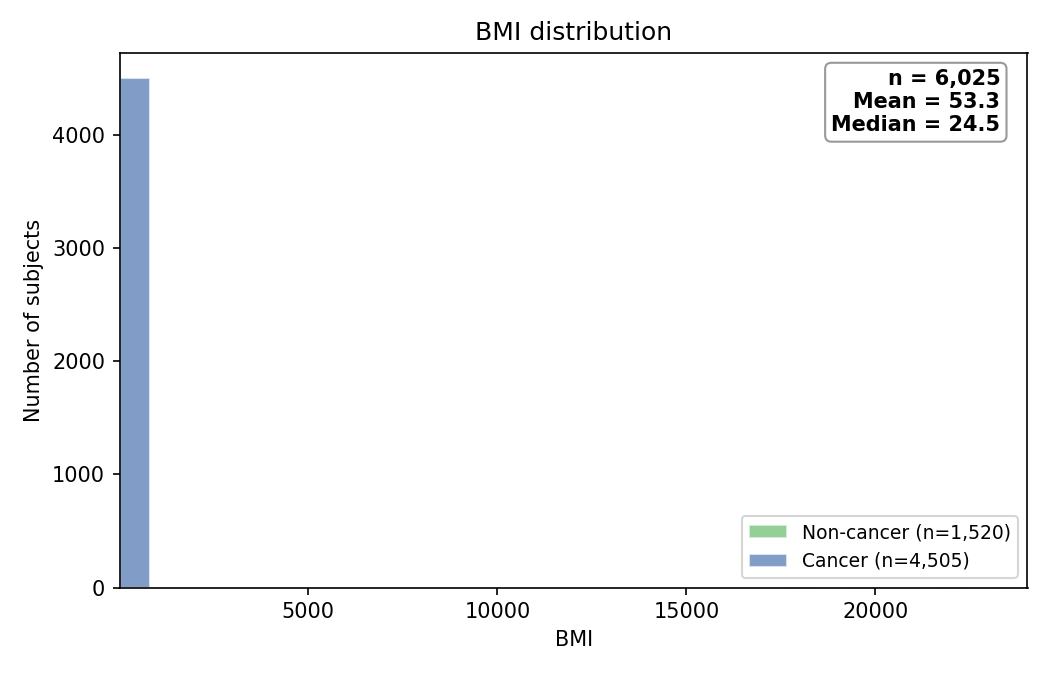
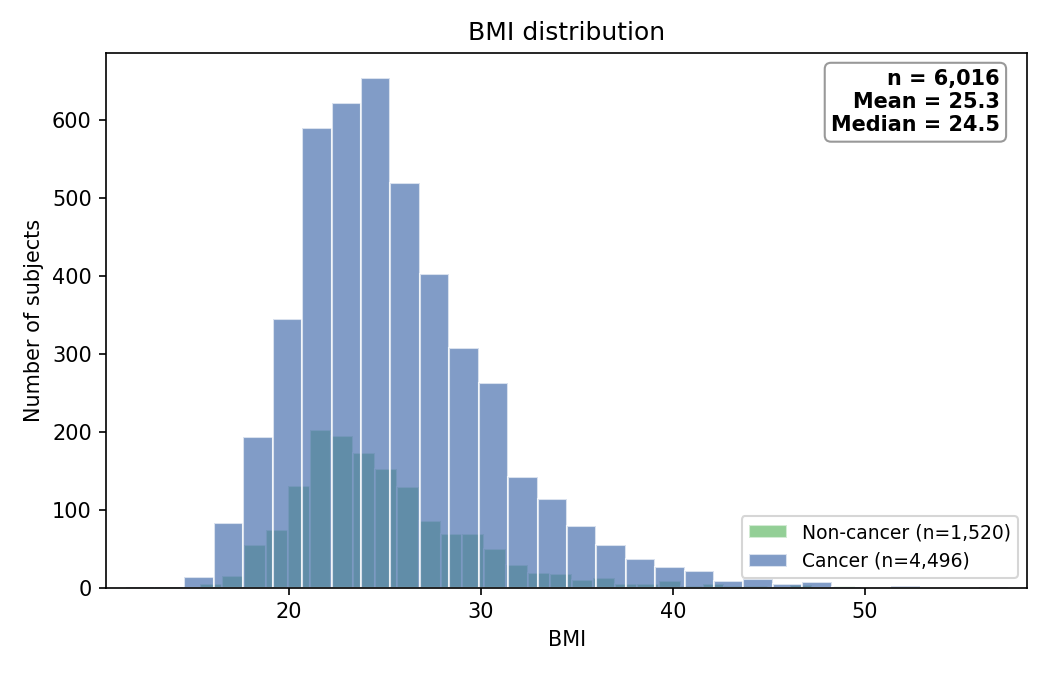
Update dashboard 2026-09-07 10:43

diff --git a/global_map.html b/global_map.html
@@ -2,6 +2,6 @@
 <head><meta charset="utf-8" /></head>
 <body>
     <div style="height:500px; width:100%;">                        <script>window.PlotlyConfig = {MathJaxConfig: 'local'};</script>
-        <script charset="utf-8" src="https://cdn.plot.ly/plotly-3.7.0.min.js" integrity="sha256-jvTGqxNp8AGWEcvNLVuKr+8j5dGe9Yw51LQkmDH+IYA=" crossorigin="anonymous"></script>                <div id="e7783add-64eb-47e3-b502-43742c8439c8" class="plotly-graph-div" style="height:100%; width:100%;"></div>            <script>                window.PLOTLYENV=window.PLOTLYENV || {};                                if (document.getElementById("e7783add-64eb-47e3-b502-43742c8439c8")) {                    Plotly.newPlot(                        "e7783add-64eb-47e3-b502-43742c8439c8",                        [{"colorscale":[[0,"#FEF9E7"],[1,"#E59866"]],"hoverinfo":"text","locations":["AUT","CAN","CHN","CZE","FRA","DEU","IND","ISR","ITA","JPN","NLD","POL","KOR","ESP","CHE","TUR","GBR","USA"],"marker":{"line":{"color":"white","width":0.5}},"showscale":false,"text":["\u003cb\u003eAustria\u003c\u002fb\u003e\u003cbr\u003eTotal samples: 154\u003cbr\u003eStudies: 1\u003cbr\u003e\u2500\u2500\u2500\u2500\u2500\u2500\u2500\u2500\u2500\u2500\u2500\u2500\u2500\u003cbr\u003eCRC: 93","\u003cb\u003eCanada\u003c\u002fb\u003e\u003cbr\u003eTotal samples: 98\u003cbr\u003eStudies: 2\u003cbr\u003e\u2500\u2500\u2500\u2500\u2500\u2500\u2500\u2500\u2500\u2500\u2500\u2500\u2500\u003cbr\u003eMelanoma: 60\u003cbr\u003eCRC: 24","\u003cb\u003eChina\u003c\u002fb\u003e\u003cbr\u003eTotal samples: 756\u003cbr\u003eStudies: 7\u003cbr\u003e\u2500\u2500\u2500\u2500\u2500\u2500\u2500\u2500\u2500\u2500\u2500\u2500\u2500\u003cbr\u003eCRC: 418\u003cbr\u003eLymphoma: 111\u003cbr\u003eLeukemia: 20","\u003cb\u003eCzech Republic\u003c\u002fb\u003e\u003cbr\u003eTotal samples: 327\u003cbr\u003eStudies: 2\u003cbr\u003e\u2500\u2500\u2500\u2500\u2500\u2500\u2500\u2500\u2500\u2500\u2500\u2500\u2500\u003cbr\u003eCRC: 281","\u003cb\u003eFrance\u003c\u002fb\u003e\u003cbr\u003eTotal samples: 1,373\u003cbr\u003eStudies: 4\u003cbr\u003e\u2500\u2500\u2500\u2500\u2500\u2500\u2500\u2500\u2500\u2500\u2500\u2500\u2500\u003cbr\u003eLung Cancer: 1,217\u003cbr\u003eCRC: 95","\u003cb\u003eGermany\u003c\u002fb\u003e\u003cbr\u003eTotal samples: 430\u003cbr\u003eStudies: 3\u003cbr\u003e\u2500\u2500\u2500\u2500\u2500\u2500\u2500\u2500\u2500\u2500\u2500\u2500\u2500\u003cbr\u003eLymphoma: 229\u003cbr\u003ePancreatic Cancer: 76\u003cbr\u003eCRC: 60","\u003cb\u003eIndia\u003c\u002fb\u003e\u003cbr\u003eTotal samples: 200\u003cbr\u003eStudies: 2\u003cbr\u003e\u2500\u2500\u2500\u2500\u2500\u2500\u2500\u2500\u2500\u2500\u2500\u2500\u2500\u003cbr\u003eCRC: 170","\u003cb\u003eIsrael\u003c\u002fb\u003e\u003cbr\u003eTotal samples: 42\u003cbr\u003eStudies: 1\u003cbr\u003e\u2500\u2500\u2500\u2500\u2500\u2500\u2500\u2500\u2500\u2500\u2500\u2500\u2500\u003cbr\u003eMelanoma: 42","\u003cb\u003eItaly\u003c\u002fb\u003e\u003cbr\u003eTotal samples: 484\u003cbr\u003eStudies: 4\u003cbr\u003e\u2500\u2500\u2500\u2500\u2500\u2500\u2500\u2500\u2500\u2500\u2500\u2500\u2500\u003cbr\u003eCRC: 373","\u003cb\u003eJapan\u003c\u002fb\u003e\u003cbr\u003eTotal samples: 1,766\u003cbr\u003eStudies: 4\u003cbr\u003e\u2500\u2500\u2500\u2500\u2500\u2500\u2500\u2500\u2500\u2500\u2500\u2500\u2500\u003cbr\u003eCRC: 807\u003cbr\u003ePancreatic Cancer: 560","\u003cb\u003eNetherlands\u003c\u002fb\u003e\u003cbr\u003eTotal samples: 75\u003cbr\u003eStudies: 2\u003cbr\u003e\u2500\u2500\u2500\u2500\u2500\u2500\u2500\u2500\u2500\u2500\u2500\u2500\u2500\u003cbr\u003eMelanoma: 75","\u003cb\u003ePoland\u003c\u002fb\u003e\u003cbr\u003eTotal samples: 322\u003cbr\u003eStudies: 2\u003cbr\u003e\u2500\u2500\u2500\u2500\u2500\u2500\u2500\u2500\u2500\u2500\u2500\u2500\u2500\u003cbr\u003eBreast Cancer: 153\u003cbr\u003eLymphoma: 60\u003cbr\u003eLeukemia: 40","\u003cb\u003eSouth Korea\u003c\u002fb\u003e\u003cbr\u003eTotal samples: 149\u003cbr\u003eStudies: 2\u003cbr\u003e\u2500\u2500\u2500\u2500\u2500\u2500\u2500\u2500\u2500\u2500\u2500\u2500\u2500\u003cbr\u003eLymphoma: 149","\u003cb\u003eSpain\u003c\u002fb\u003e\u003cbr\u003eTotal samples: 355\u003cbr\u003eStudies: 3\u003cbr\u003e\u2500\u2500\u2500\u2500\u2500\u2500\u2500\u2500\u2500\u2500\u2500\u2500\u2500\u003cbr\u003ePancreatic Cancer: 253\u003cbr\u003eCRC: 90\u003cbr\u003eMelanoma: 12","\u003cb\u003eSwitzerland\u003c\u002fb\u003e\u003cbr\u003eTotal samples: 29\u003cbr\u003eStudies: 1\u003cbr\u003e\u2500\u2500\u2500\u2500\u2500\u2500\u2500\u2500\u2500\u2500\u2500\u2500\u2500\u003cbr\u003eProstate Cancer: 29","\u003cb\u003eTurkey\u003c\u002fb\u003e\u003cbr\u003eTotal samples: 57\u003cbr\u003eStudies: 1\u003cbr\u003e\u2500\u2500\u2500\u2500\u2500\u2500\u2500\u2500\u2500\u2500\u2500\u2500\u2500\u003cbr\u003eCRC: 18","\u003cb\u003eUnited Kingdom\u003c\u002fb\u003e\u003cbr\u003eTotal samples: 143\u003cbr\u003eStudies: 2\u003cbr\u003e\u2500\u2500\u2500\u2500\u2500\u2500\u2500\u2500\u2500\u2500\u2500\u2500\u2500\u003cbr\u003eMelanoma: 98\u003cbr\u003eProstate Cancer: 45","\u003cb\u003eUnited States\u003c\u002fb\u003e\u003cbr\u003eTotal samples: 2,096\u003cbr\u003eStudies: 13\u003cbr\u003e\u2500\u2500\u2500\u2500\u2500\u2500\u2500\u2500\u2500\u2500\u2500\u2500\u2500\u003cbr\u003eCRC: 836\u003cbr\u003eMelanoma: 607\u003cbr\u003eLymphoma: 122"],"z":{"dtype":"i2","bdata":"mgBiAPQCRwFdBa4ByAAqAOQB5gZLAEIBlQBjAR0AOQCPADAI"},"type":"choropleth"},{"hoverinfo":"text","locations":["AUT","CAN","CHN","CZE","FRA","DEU","IND","ISR","ITA","JPN","NLD","POL","KOR","ESP","CHE","TUR","GBR","USA"],"marker":{"color":"#2166AC","line":{"color":"white","width":1},"opacity":0.7,"size":{"dtype":"f8","bdata":"AAAAAAAAIEAAAAAAAAAgQD0K16NwPS5AAAAAAAAAIED2KFyPwnU7QDMzMzMzMyFAAAAAAAAAIEAAAAAAAAAgQFyPwvUoXCNAKVyPwvWoQUAAAAAAAAAgQAAAAAAAACBAAAAAAAAAIEAAAAAAAAAgQAAAAAAAACBAAAAAAAAAIEAAAAAAAAAgQPYoXI\u002fC9URA"}},"mode":"markers","text":["\u003cb\u003eAustria\u003c\u002fb\u003e\u003cbr\u003eTotal samples: 154\u003cbr\u003eStudies: 1\u003cbr\u003e\u2500\u2500\u2500\u2500\u2500\u2500\u2500\u2500\u2500\u2500\u2500\u2500\u2500\u003cbr\u003eCRC: 93","\u003cb\u003eCanada\u003c\u002fb\u003e\u003cbr\u003eTotal samples: 98\u003cbr\u003eStudies: 2\u003cbr\u003e\u2500\u2500\u2500\u2500\u2500\u2500\u2500\u2500\u2500\u2500\u2500\u2500\u2500\u003cbr\u003eMelanoma: 60\u003cbr\u003eCRC: 24","\u003cb\u003eChina\u003c\u002fb\u003e\u003cbr\u003eTotal samples: 756\u003cbr\u003eStudies: 7\u003cbr\u003e\u2500\u2500\u2500\u2500\u2500\u2500\u2500\u2500\u2500\u2500\u2500\u2500\u2500\u003cbr\u003eCRC: 418\u003cbr\u003eLymphoma: 111\u003cbr\u003eLeukemia: 20","\u003cb\u003eCzech Republic\u003c\u002fb\u003e\u003cbr\u003eTotal samples: 327\u003cbr\u003eStudies: 2\u003cbr\u003e\u2500\u2500\u2500\u2500\u2500\u2500\u2500\u2500\u2500\u2500\u2500\u2500\u2500\u003cbr\u003eCRC: 281","\u003cb\u003eFrance\u003c\u002fb\u003e\u003cbr\u003eTotal samples: 1,373\u003cbr\u003eStudies: 4\u003cbr\u003e\u2500\u2500\u2500\u2500\u2500\u2500\u2500\u2500\u2500\u2500\u2500\u2500\u2500\u003cbr\u003eLung Cancer: 1,217\u003cbr\u003eCRC: 95","\u003cb\u003eGermany\u003c\u002fb\u003e\u003cbr\u003eTotal samples: 430\u003cbr\u003eStudies: 3\u003cbr\u003e\u2500\u2500\u2500\u2500\u2500\u2500\u2500\u2500\u2500\u2500\u2500\u2500\u2500\u003cbr\u003eLymphoma: 229\u003cbr\u003ePancreatic Cancer: 76\u003cbr\u003eCRC: 60","\u003cb\u003eIndia\u003c\u002fb\u003e\u003cbr\u003eTotal samples: 200\u003cbr\u003eStudies: 2\u003cbr\u003e\u2500\u2500\u2500\u2500\u2500\u2500\u2500\u2500\u2500\u2500\u2500\u2500\u2500\u003cbr\u003eCRC: 170","\u003cb\u003eIsrael\u003c\u002fb\u003e\u003cbr\u003eTotal samples: 42\u003cbr\u003eStudies: 1\u003cbr\u003e\u2500\u2500\u2500\u2500\u2500\u2500\u2500\u2500\u2500\u2500\u2500\u2500\u2500\u003cbr\u003eMelanoma: 42","\u003cb\u003eItaly\u003c\u002fb\u003e\u003cbr\u003eTotal samples: 484\u003cbr\u003eStudies: 4\u003cbr\u003e\u2500\u2500\u2500\u2500\u2500\u2500\u2500\u2500\u2500\u2500\u2500\u2500\u2500\u003cbr\u003eCRC: 373","\u003cb\u003eJapan\u003c\u002fb\u003e\u003cbr\u003eTotal samples: 1,766\u003cbr\u003eStudies: 4\u003cbr\u003e\u2500\u2500\u2500\u2500\u2500\u2500\u2500\u2500\u2500\u2500\u2500\u2500\u2500\u003cbr\u003eCRC: 807\u003cbr\u003ePancreatic Cancer: 560","\u003cb\u003eNetherlands\u003c\u002fb\u003e\u003cbr\u003eTotal samples: 75\u003cbr\u003eStudies: 2\u003cbr\u003e\u2500\u2500\u2500\u2500\u2500\u2500\u2500\u2500\u2500\u2500\u2500\u2500\u2500\u003cbr\u003eMelanoma: 75","\u003cb\u003ePoland\u003c\u002fb\u003e\u003cbr\u003eTotal samples: 322\u003cbr\u003eStudies: 2\u003cbr\u003e\u2500\u2500\u2500\u2500\u2500\u2500\u2500\u2500\u2500\u2500\u2500\u2500\u2500\u003cbr\u003eBreast Cancer: 153\u003cbr\u003eLymphoma: 60\u003cbr\u003eLeukemia: 40","\u003cb\u003eSouth Korea\u003c\u002fb\u003e\u003cbr\u003eTotal samples: 149\u003cbr\u003eStudies: 2\u003cbr\u003e\u2500\u2500\u2500\u2500\u2500\u2500\u2500\u2500\u2500\u2500\u2500\u2500\u2500\u003cbr\u003eLymphoma: 149","\u003cb\u003eSpain\u003c\u002fb\u003e\u003cbr\u003eTotal samples: 355\u003cbr\u003eStudies: 3\u003cbr\u003e\u2500\u2500\u2500\u2500\u2500\u2500\u2500\u2500\u2500\u2500\u2500\u2500\u2500\u003cbr\u003ePancreatic Cancer: 253\u003cbr\u003eCRC: 90\u003cbr\u003eMelanoma: 12","\u003cb\u003eSwitzerland\u003c\u002fb\u003e\u003cbr\u003eTotal samples: 29\u003cbr\u003eStudies: 1\u003cbr\u003e\u2500\u2500\u2500\u2500\u2500\u2500\u2500\u2500\u2500\u2500\u2500\u2500\u2500\u003cbr\u003eProstate Cancer: 29","\u003cb\u003eTurkey\u003c\u002fb\u003e\u003cbr\u003eTotal samples: 57\u003cbr\u003eStudies: 1\u003cbr\u003e\u2500\u2500\u2500\u2500\u2500\u2500\u2500\u2500\u2500\u2500\u2500\u2500\u2500\u003cbr\u003eCRC: 18","\u003cb\u003eUnited Kingdom\u003c\u002fb\u003e\u003cbr\u003eTotal samples: 143\u003cbr\u003eStudies: 2\u003cbr\u003e\u2500\u2500\u2500\u2500\u2500\u2500\u2500\u2500\u2500\u2500\u2500\u2500\u2500\u003cbr\u003eMelanoma: 98\u003cbr\u003eProstate Cancer: 45","\u003cb\u003eUnited States\u003c\u002fb\u003e\u003cbr\u003eTotal samples: 2,096\u003cbr\u003eStudies: 13\u003cbr\u003e\u2500\u2500\u2500\u2500\u2500\u2500\u2500\u2500\u2500\u2500\u2500\u2500\u2500\u003cbr\u003eCRC: 836\u003cbr\u003eMelanoma: 607\u003cbr\u003eLymphoma: 122"],"type":"scattergeo"}],                        {"template":{"data":{"histogram2dcontour":[{"type":"histogram2dcontour","colorbar":{"outlinewidth":0,"ticks":""},"colorscale":[[0.0,"#0d0887"],[0.1111111111111111,"#46039f"],[0.2222222222222222,"#7201a8"],[0.3333333333333333,"#9c179e"],[0.4444444444444444,"#bd3786"],[0.5555555555555556,"#d8576b"],[0.6666666666666666,"#ed7953"],[0.7777777777777778,"#fb9f3a"],[0.8888888888888888,"#fdca26"],[1.0,"#f0f921"]]}],"choropleth":[{"type":"choropleth","colorbar":{"outlinewidth":0,"ticks":""}}],"histogram2d":[{"type":"histogram2d","colorbar":{"outlinewidth":0,"ticks":""},"colorscale":[[0.0,"#0d0887"],[0.1111111111111111,"#46039f"],[0.2222222222222222,"#7201a8"],[0.3333333333333333,"#9c179e"],[0.4444444444444444,"#bd3786"],[0.5555555555555556,"#d8576b"],[0.6666666666666666,"#ed7953"],[0.7777777777777778,"#fb9f3a"],[0.8888888888888888,"#fdca26"],[1.0,"#f0f921"]]}],"heatmap":[{"type":"heatmap","colorbar":{"outlinewidth":0,"ticks":""},"colorscale":[[0.0,"#0d0887"],[0.1111111111111111,"#46039f"],[0.2222222222222222,"#7201a8"],[0.3333333333333333,"#9c179e"],[0.4444444444444444,"#bd3786"],[0.5555555555555556,"#d8576b"],[0.6666666666666666,"#ed7953"],[0.7777777777777778,"#fb9f3a"],[0.8888888888888888,"#fdca26"],[1.0,"#f0f921"]]}],"contourcarpet":[{"type":"contourcarpet","colorbar":{"outlinewidth":0,"ticks":""}}],"contour":[{"type":"contour","colorbar":{"outlinewidth":0,"ticks":""},"colorscale":[[0.0,"#0d0887"],[0.1111111111111111,"#46039f"],[0.2222222222222222,"#7201a8"],[0.3333333333333333,"#9c179e"],[0.4444444444444444,"#bd3786"],[0.5555555555555556,"#d8576b"],[0.6666666666666666,"#ed7953"],[0.7777777777777778,"#fb9f3a"],[0.8888888888888888,"#fdca26"],[1.0,"#f0f921"]]}],"surface":[{"type":"surface","colorbar":{"outlinewidth":0,"ticks":""},"colorscale":[[0.0,"#0d0887"],[0.1111111111111111,"#46039f"],[0.2222222222222222,"#7201a8"],[0.3333333333333333,"#9c179e"],[0.4444444444444444,"#bd3786"],[0.5555555555555556,"#d8576b"],[0.6666666666666666,"#ed7953"],[0.7777777777777778,"#fb9f3a"],[0.8888888888888888,"#fdca26"],[1.0,"#f0f921"]]}],"mesh3d":[{"type":"mesh3d","colorbar":{"outlinewidth":0,"ticks":""}}],"scatter":[{"fillpattern":{"fillmode":"overlay","size":10,"solidity":0.2},"type":"scatter"}],"parcoords":[{"type":"parcoords","line":{"colorbar":{"outlinewidth":0,"ticks":""}}}],"scatterpolargl":[{"type":"scatterpolargl","marker":{"colorbar":{"outlinewidth":0,"ticks":""}}}],"bar":[{"error_x":{"color":"#2a3f5f"},"error_y":{"color":"#2a3f5f"},"marker":{"line":{"color":"#E5ECF6","width":0.5},"pattern":{"fillmode":"overlay","size":10,"solidity":0.2}},"type":"bar"}],"scattergeo":[{"type":"scattergeo","marker":{"colorbar":{"outlinewidth":0,"ticks":""}}}],"scatterpolar":[{"type":"scatterpolar","marker":{"colorbar":{"outlinewidth":0,"ticks":""}}}],"histogram":[{"marker":{"pattern":{"fillmode":"overlay","size":10,"solidity":0.2}},"type":"histogram"}],"scattergl":[{"type":"scattergl","marker":{"colorbar":{"outlinewidth":0,"ticks":""}}}],"scatter3d":[{"type":"scatter3d","line":{"colorbar":{"outlinewidth":0,"ticks":""}},"marker":{"colorbar":{"outlinewidth":0,"ticks":""}}}],"scattermap":[{"type":"scattermap","marker":{"colorbar":{"outlinewidth":0,"ticks":""}}}],"scattermapbox":[{"type":"scattermapbox","marker":{"colorbar":{"outlinewidth":0,"ticks":""}}}],"scatterternary":[{"type":"scatterternary","marker":{"colorbar":{"outlinewidth":0,"ticks":""}}}],"scattercarpet":[{"type":"scattercarpet","marker":{"colorbar":{"outlinewidth":0,"ticks":""}}}],"carpet":[{"aaxis":{"endlinecolor":"#2a3f5f","gridcolor":"white","linecolor":"white","minorgridcolor":"white","startlinecolor":"#2a3f5f"},"baxis":{"endlinecolor":"#2a3f5f","gridcolor":"white","linecolor":"white","minorgridcolor":"white","startlinecolor":"#2a3f5f"},"type":"carpet"}],"table":[{"cells":{"fill":{"color":"#EBF0F8"},"line":{"color":"white"}},"header":{"fill":{"color":"#C8D4E3"},"line":{"color":"white"}},"type":"table"}],"barpolar":[{"marker":{"line":{"color":"#E5ECF6","width":0.5},"pattern":{"fillmode":"overlay","size":10,"solidity":0.2}},"type":"barpolar"}],"pie":[{"automargin":true,"type":"pie"}]},"layout":{"autotypenumbers":"strict","colorway":["#636efa","#EF553B","#00cc96","#ab63fa","#FFA15A","#19d3f3","#FF6692","#B6E880","#FF97FF","#FECB52"],"font":{"color":"#2a3f5f"},"hovermode":"closest","hoverlabel":{"align":"left"},"paper_bgcolor":"white","plot_bgcolor":"#E5ECF6","polar":{"bgcolor":"#E5ECF6","angularaxis":{"gridcolor":"white","linecolor":"white","ticks":""},"radialaxis":{"gridcolor":"white","linecolor":"white","ticks":""}},"ternary":{"bgcolor":"#E5ECF6","aaxis":{"gridcolor":"white","linecolor":"white","ticks":""},"baxis":{"gridcolor":"white","linecolor":"white","ticks":""},"caxis":{"gridcolor":"white","linecolor":"white","ticks":""}},"coloraxis":{"colorbar":{"outlinewidth":0,"ticks":""}},"colorscale":{"sequential":[[0.0,"#0d0887"],[0.1111111111111111,"#46039f"],[0.2222222222222222,"#7201a8"],[0.3333333333333333,"#9c179e"],[0.4444444444444444,"#bd3786"],[0.5555555555555556,"#d8576b"],[0.6666666666666666,"#ed7953"],[0.7777777777777778,"#fb9f3a"],[0.8888888888888888,"#fdca26"],[1.0,"#f0f921"]],"sequentialminus":[[0.0,"#0d0887"],[0.1111111111111111,"#46039f"],[0.2222222222222222,"#7201a8"],[0.3333333333333333,"#9c179e"],[0.4444444444444444,"#bd3786"],[0.5555555555555556,"#d8576b"],[0.6666666666666666,"#ed7953"],[0.7777777777777778,"#fb9f3a"],[0.8888888888888888,"#fdca26"],[1.0,"#f0f921"]],"diverging":[[0,"#8e0152"],[0.1,"#c51b7d"],[0.2,"#de77ae"],[0.3,"#f1b6da"],[0.4,"#fde0ef"],[0.5,"#f7f7f7"],[0.6,"#e6f5d0"],[0.7,"#b8e186"],[0.8,"#7fbc41"],[0.9,"#4d9221"],[1,"#276419"]]},"xaxis":{"gridcolor":"white","linecolor":"white","ticks":"","title":{"standoff":15},"zerolinecolor":"white","automargin":true,"zerolinewidth":2},"yaxis":{"gridcolor":"white","linecolor":"white","ticks":"","title":{"standoff":15},"zerolinecolor":"white","automargin":true,"zerolinewidth":2},"scene":{"xaxis":{"backgroundcolor":"#E5ECF6","gridcolor":"white","linecolor":"white","showbackground":true,"ticks":"","zerolinecolor":"white","gridwidth":2},"yaxis":{"backgroundcolor":"#E5ECF6","gridcolor":"white","linecolor":"white","showbackground":true,"ticks":"","zerolinecolor":"white","gridwidth":2},"zaxis":{"backgroundcolor":"#E5ECF6","gridcolor":"white","linecolor":"white","showbackground":true,"ticks":"","zerolinecolor":"white","gridwidth":2}},"shapedefaults":{"line":{"color":"#2a3f5f"}},"annotationdefaults":{"arrowcolor":"#2a3f5f","arrowhead":0,"arrowwidth":1},"geo":{"bgcolor":"white","landcolor":"#E5ECF6","subunitcolor":"white","showland":true,"showlakes":true,"lakecolor":"white"},"title":{"x":0.05},"mapbox":{"style":"light"}}},"geo":{"projection":{"type":"natural earth"},"showframe":false,"showcoastlines":true,"coastlinecolor":"grey","showland":true,"landcolor":"#F5F5F2","showocean":true,"oceancolor":"#EAF2F8","showlakes":false,"bgcolor":"#EAF2F8"},"margin":{"l":0,"r":0,"t":30,"b":0},"title":{"font":{"size":16},"text":"Global distribution of cancer microbiome studies","x":0.5},"hoverlabel":{"font":{"size":13,"family":"Arial"},"bgcolor":"white"},"height":500,"paper_bgcolor":"white"},                        {"responsive": true}                    )                };            </script>        </div>
+        <script charset="utf-8" src="https://cdn.plot.ly/plotly-3.7.0.min.js" integrity="sha256-jvTGqxNp8AGWEcvNLVuKr+8j5dGe9Yw51LQkmDH+IYA=" crossorigin="anonymous"></script>                <div id="ef508b28-3c56-4efb-9f65-5759a006d5a5" class="plotly-graph-div" style="height:100%; width:100%;"></div>            <script>                window.PLOTLYENV=window.PLOTLYENV || {};                                if (document.getElementById("ef508b28-3c56-4efb-9f65-5759a006d5a5")) {                    Plotly.newPlot(                        "ef508b28-3c56-4efb-9f65-5759a006d5a5",                        [{"colorscale":[[0,"#FEF9E7"],[1,"#E59866"]],"hoverinfo":"text","locations":["AUT","CAN","CHN","CZE","FRA","DEU","IND","ISR","ITA","JPN","NLD","POL","KOR","ESP","CHE","TUR","GBR","USA"],"marker":{"line":{"color":"white","width":0.5}},"showscale":false,"text":["\u003cb\u003eAustria\u003c\u002fb\u003e\u003cbr\u003eTotal samples: 154\u003cbr\u003eStudies: 1\u003cbr\u003e\u2500\u2500\u2500\u2500\u2500\u2500\u2500\u2500\u2500\u2500\u2500\u2500\u2500\u003cbr\u003eCRC: 93","\u003cb\u003eCanada\u003c\u002fb\u003e\u003cbr\u003eTotal samples: 98\u003cbr\u003eStudies: 2\u003cbr\u003e\u2500\u2500\u2500\u2500\u2500\u2500\u2500\u2500\u2500\u2500\u2500\u2500\u2500\u003cbr\u003eMelanoma: 60\u003cbr\u003eCRC: 24","\u003cb\u003eChina\u003c\u002fb\u003e\u003cbr\u003eTotal samples: 756\u003cbr\u003eStudies: 7\u003cbr\u003e\u2500\u2500\u2500\u2500\u2500\u2500\u2500\u2500\u2500\u2500\u2500\u2500\u2500\u003cbr\u003eCRC: 418\u003cbr\u003eLymphoma: 111\u003cbr\u003eLeukemia: 20","\u003cb\u003eCzech Republic\u003c\u002fb\u003e\u003cbr\u003eTotal samples: 327\u003cbr\u003eStudies: 2\u003cbr\u003e\u2500\u2500\u2500\u2500\u2500\u2500\u2500\u2500\u2500\u2500\u2500\u2500\u2500\u003cbr\u003eCRC: 281","\u003cb\u003eFrance\u003c\u002fb\u003e\u003cbr\u003eTotal samples: 1,373\u003cbr\u003eStudies: 4\u003cbr\u003e\u2500\u2500\u2500\u2500\u2500\u2500\u2500\u2500\u2500\u2500\u2500\u2500\u2500\u003cbr\u003eLung Cancer: 1,217\u003cbr\u003eCRC: 95","\u003cb\u003eGermany\u003c\u002fb\u003e\u003cbr\u003eTotal samples: 430\u003cbr\u003eStudies: 3\u003cbr\u003e\u2500\u2500\u2500\u2500\u2500\u2500\u2500\u2500\u2500\u2500\u2500\u2500\u2500\u003cbr\u003eLymphoma: 229\u003cbr\u003ePancreatic Cancer: 76\u003cbr\u003eCRC: 60","\u003cb\u003eIndia\u003c\u002fb\u003e\u003cbr\u003eTotal samples: 200\u003cbr\u003eStudies: 2\u003cbr\u003e\u2500\u2500\u2500\u2500\u2500\u2500\u2500\u2500\u2500\u2500\u2500\u2500\u2500\u003cbr\u003eCRC: 170","\u003cb\u003eIsrael\u003c\u002fb\u003e\u003cbr\u003eTotal samples: 42\u003cbr\u003eStudies: 1\u003cbr\u003e\u2500\u2500\u2500\u2500\u2500\u2500\u2500\u2500\u2500\u2500\u2500\u2500\u2500\u003cbr\u003eMelanoma: 42","\u003cb\u003eItaly\u003c\u002fb\u003e\u003cbr\u003eTotal samples: 484\u003cbr\u003eStudies: 4\u003cbr\u003e\u2500\u2500\u2500\u2500\u2500\u2500\u2500\u2500\u2500\u2500\u2500\u2500\u2500\u003cbr\u003eCRC: 373","\u003cb\u003eJapan\u003c\u002fb\u003e\u003cbr\u003eTotal samples: 1,766\u003cbr\u003eStudies: 4\u003cbr\u003e\u2500\u2500\u2500\u2500\u2500\u2500\u2500\u2500\u2500\u2500\u2500\u2500\u2500\u003cbr\u003eCRC: 807\u003cbr\u003ePancreatic Cancer: 560","\u003cb\u003eNetherlands\u003c\u002fb\u003e\u003cbr\u003eTotal samples: 75\u003cbr\u003eStudies: 2\u003cbr\u003e\u2500\u2500\u2500\u2500\u2500\u2500\u2500\u2500\u2500\u2500\u2500\u2500\u2500\u003cbr\u003eMelanoma: 75","\u003cb\u003ePoland\u003c\u002fb\u003e\u003cbr\u003eTotal samples: 322\u003cbr\u003eStudies: 2\u003cbr\u003e\u2500\u2500\u2500\u2500\u2500\u2500\u2500\u2500\u2500\u2500\u2500\u2500\u2500\u003cbr\u003eBreast Cancer: 153\u003cbr\u003eLymphoma: 60\u003cbr\u003eLeukemia: 40","\u003cb\u003eSouth Korea\u003c\u002fb\u003e\u003cbr\u003eTotal samples: 149\u003cbr\u003eStudies: 2\u003cbr\u003e\u2500\u2500\u2500\u2500\u2500\u2500\u2500\u2500\u2500\u2500\u2500\u2500\u2500\u003cbr\u003eLymphoma: 149","\u003cb\u003eSpain\u003c\u002fb\u003e\u003cbr\u003eTotal samples: 355\u003cbr\u003eStudies: 3\u003cbr\u003e\u2500\u2500\u2500\u2500\u2500\u2500\u2500\u2500\u2500\u2500\u2500\u2500\u2500\u003cbr\u003ePancreatic Cancer: 253\u003cbr\u003eCRC: 90\u003cbr\u003eMelanoma: 12","\u003cb\u003eSwitzerland\u003c\u002fb\u003e\u003cbr\u003eTotal samples: 29\u003cbr\u003eStudies: 1\u003cbr\u003e\u2500\u2500\u2500\u2500\u2500\u2500\u2500\u2500\u2500\u2500\u2500\u2500\u2500\u003cbr\u003eProstate Cancer: 29","\u003cb\u003eTurkey\u003c\u002fb\u003e\u003cbr\u003eTotal samples: 57\u003cbr\u003eStudies: 1\u003cbr\u003e\u2500\u2500\u2500\u2500\u2500\u2500\u2500\u2500\u2500\u2500\u2500\u2500\u2500\u003cbr\u003eCRC: 18","\u003cb\u003eUnited Kingdom\u003c\u002fb\u003e\u003cbr\u003eTotal samples: 143\u003cbr\u003eStudies: 2\u003cbr\u003e\u2500\u2500\u2500\u2500\u2500\u2500\u2500\u2500\u2500\u2500\u2500\u2500\u2500\u003cbr\u003eMelanoma: 98\u003cbr\u003eProstate Cancer: 45","\u003cb\u003eUnited States\u003c\u002fb\u003e\u003cbr\u003eTotal samples: 2,096\u003cbr\u003eStudies: 13\u003cbr\u003e\u2500\u2500\u2500\u2500\u2500\u2500\u2500\u2500\u2500\u2500\u2500\u2500\u2500\u003cbr\u003eCRC: 836\u003cbr\u003eMelanoma: 607\u003cbr\u003eLymphoma: 122"],"z":{"dtype":"i2","bdata":"mgBiAPQCRwFdBa4ByAAqAOQB5gZLAEIBlQBjAR0AOQCPADAI"},"type":"choropleth"},{"hoverinfo":"text","locations":["AUT","CAN","CHN","CZE","FRA","DEU","IND","ISR","ITA","JPN","NLD","POL","KOR","ESP","CHE","TUR","GBR","USA"],"marker":{"color":"#2166AC","line":{"color":"white","width":1},"opacity":0.7,"size":{"dtype":"f8","bdata":"AAAAAAAAIEAAAAAAAAAgQD0K16NwPS5AAAAAAAAAIED2KFyPwnU7QDMzMzMzMyFAAAAAAAAAIEAAAAAAAAAgQFyPwvUoXCNAKVyPwvWoQUAAAAAAAAAgQAAAAAAAACBAAAAAAAAAIEAAAAAAAAAgQAAAAAAAACBAAAAAAAAAIEAAAAAAAAAgQPYoXI\u002fC9URA"}},"mode":"markers","text":["\u003cb\u003eAustria\u003c\u002fb\u003e\u003cbr\u003eTotal samples: 154\u003cbr\u003eStudies: 1\u003cbr\u003e\u2500\u2500\u2500\u2500\u2500\u2500\u2500\u2500\u2500\u2500\u2500\u2500\u2500\u003cbr\u003eCRC: 93","\u003cb\u003eCanada\u003c\u002fb\u003e\u003cbr\u003eTotal samples: 98\u003cbr\u003eStudies: 2\u003cbr\u003e\u2500\u2500\u2500\u2500\u2500\u2500\u2500\u2500\u2500\u2500\u2500\u2500\u2500\u003cbr\u003eMelanoma: 60\u003cbr\u003eCRC: 24","\u003cb\u003eChina\u003c\u002fb\u003e\u003cbr\u003eTotal samples: 756\u003cbr\u003eStudies: 7\u003cbr\u003e\u2500\u2500\u2500\u2500\u2500\u2500\u2500\u2500\u2500\u2500\u2500\u2500\u2500\u003cbr\u003eCRC: 418\u003cbr\u003eLymphoma: 111\u003cbr\u003eLeukemia: 20","\u003cb\u003eCzech Republic\u003c\u002fb\u003e\u003cbr\u003eTotal samples: 327\u003cbr\u003eStudies: 2\u003cbr\u003e\u2500\u2500\u2500\u2500\u2500\u2500\u2500\u2500\u2500\u2500\u2500\u2500\u2500\u003cbr\u003eCRC: 281","\u003cb\u003eFrance\u003c\u002fb\u003e\u003cbr\u003eTotal samples: 1,373\u003cbr\u003eStudies: 4\u003cbr\u003e\u2500\u2500\u2500\u2500\u2500\u2500\u2500\u2500\u2500\u2500\u2500\u2500\u2500\u003cbr\u003eLung Cancer: 1,217\u003cbr\u003eCRC: 95","\u003cb\u003eGermany\u003c\u002fb\u003e\u003cbr\u003eTotal samples: 430\u003cbr\u003eStudies: 3\u003cbr\u003e\u2500\u2500\u2500\u2500\u2500\u2500\u2500\u2500\u2500\u2500\u2500\u2500\u2500\u003cbr\u003eLymphoma: 229\u003cbr\u003ePancreatic Cancer: 76\u003cbr\u003eCRC: 60","\u003cb\u003eIndia\u003c\u002fb\u003e\u003cbr\u003eTotal samples: 200\u003cbr\u003eStudies: 2\u003cbr\u003e\u2500\u2500\u2500\u2500\u2500\u2500\u2500\u2500\u2500\u2500\u2500\u2500\u2500\u003cbr\u003eCRC: 170","\u003cb\u003eIsrael\u003c\u002fb\u003e\u003cbr\u003eTotal samples: 42\u003cbr\u003eStudies: 1\u003cbr\u003e\u2500\u2500\u2500\u2500\u2500\u2500\u2500\u2500\u2500\u2500\u2500\u2500\u2500\u003cbr\u003eMelanoma: 42","\u003cb\u003eItaly\u003c\u002fb\u003e\u003cbr\u003eTotal samples: 484\u003cbr\u003eStudies: 4\u003cbr\u003e\u2500\u2500\u2500\u2500\u2500\u2500\u2500\u2500\u2500\u2500\u2500\u2500\u2500\u003cbr\u003eCRC: 373","\u003cb\u003eJapan\u003c\u002fb\u003e\u003cbr\u003eTotal samples: 1,766\u003cbr\u003eStudies: 4\u003cbr\u003e\u2500\u2500\u2500\u2500\u2500\u2500\u2500\u2500\u2500\u2500\u2500\u2500\u2500\u003cbr\u003eCRC: 807\u003cbr\u003ePancreatic Cancer: 560","\u003cb\u003eNetherlands\u003c\u002fb\u003e\u003cbr\u003eTotal samples: 75\u003cbr\u003eStudies: 2\u003cbr\u003e\u2500\u2500\u2500\u2500\u2500\u2500\u2500\u2500\u2500\u2500\u2500\u2500\u2500\u003cbr\u003eMelanoma: 75","\u003cb\u003ePoland\u003c\u002fb\u003e\u003cbr\u003eTotal samples: 322\u003cbr\u003eStudies: 2\u003cbr\u003e\u2500\u2500\u2500\u2500\u2500\u2500\u2500\u2500\u2500\u2500\u2500\u2500\u2500\u003cbr\u003eBreast Cancer: 153\u003cbr\u003eLymphoma: 60\u003cbr\u003eLeukemia: 40","\u003cb\u003eSouth Korea\u003c\u002fb\u003e\u003cbr\u003eTotal samples: 149\u003cbr\u003eStudies: 2\u003cbr\u003e\u2500\u2500\u2500\u2500\u2500\u2500\u2500\u2500\u2500\u2500\u2500\u2500\u2500\u003cbr\u003eLymphoma: 149","\u003cb\u003eSpain\u003c\u002fb\u003e\u003cbr\u003eTotal samples: 355\u003cbr\u003eStudies: 3\u003cbr\u003e\u2500\u2500\u2500\u2500\u2500\u2500\u2500\u2500\u2500\u2500\u2500\u2500\u2500\u003cbr\u003ePancreatic Cancer: 253\u003cbr\u003eCRC: 90\u003cbr\u003eMelanoma: 12","\u003cb\u003eSwitzerland\u003c\u002fb\u003e\u003cbr\u003eTotal samples: 29\u003cbr\u003eStudies: 1\u003cbr\u003e\u2500\u2500\u2500\u2500\u2500\u2500\u2500\u2500\u2500\u2500\u2500\u2500\u2500\u003cbr\u003eProstate Cancer: 29","\u003cb\u003eTurkey\u003c\u002fb\u003e\u003cbr\u003eTotal samples: 57\u003cbr\u003eStudies: 1\u003cbr\u003e\u2500\u2500\u2500\u2500\u2500\u2500\u2500\u2500\u2500\u2500\u2500\u2500\u2500\u003cbr\u003eCRC: 18","\u003cb\u003eUnited Kingdom\u003c\u002fb\u003e\u003cbr\u003eTotal samples: 143\u003cbr\u003eStudies: 2\u003cbr\u003e\u2500\u2500\u2500\u2500\u2500\u2500\u2500\u2500\u2500\u2500\u2500\u2500\u2500\u003cbr\u003eMelanoma: 98\u003cbr\u003eProstate Cancer: 45","\u003cb\u003eUnited States\u003c\u002fb\u003e\u003cbr\u003eTotal samples: 2,096\u003cbr\u003eStudies: 13\u003cbr\u003e\u2500\u2500\u2500\u2500\u2500\u2500\u2500\u2500\u2500\u2500\u2500\u2500\u2500\u003cbr\u003eCRC: 836\u003cbr\u003eMelanoma: 607\u003cbr\u003eLymphoma: 122"],"type":"scattergeo"}],                        {"template":{"data":{"histogram2dcontour":[{"type":"histogram2dcontour","colorbar":{"outlinewidth":0,"ticks":""},"colorscale":[[0.0,"#0d0887"],[0.1111111111111111,"#46039f"],[0.2222222222222222,"#7201a8"],[0.3333333333333333,"#9c179e"],[0.4444444444444444,"#bd3786"],[0.5555555555555556,"#d8576b"],[0.6666666666666666,"#ed7953"],[0.7777777777777778,"#fb9f3a"],[0.8888888888888888,"#fdca26"],[1.0,"#f0f921"]]}],"choropleth":[{"type":"choropleth","colorbar":{"outlinewidth":0,"ticks":""}}],"histogram2d":[{"type":"histogram2d","colorbar":{"outlinewidth":0,"ticks":""},"colorscale":[[0.0,"#0d0887"],[0.1111111111111111,"#46039f"],[0.2222222222222222,"#7201a8"],[0.3333333333333333,"#9c179e"],[0.4444444444444444,"#bd3786"],[0.5555555555555556,"#d8576b"],[0.6666666666666666,"#ed7953"],[0.7777777777777778,"#fb9f3a"],[0.8888888888888888,"#fdca26"],[1.0,"#f0f921"]]}],"heatmap":[{"type":"heatmap","colorbar":{"outlinewidth":0,"ticks":""},"colorscale":[[0.0,"#0d0887"],[0.1111111111111111,"#46039f"],[0.2222222222222222,"#7201a8"],[0.3333333333333333,"#9c179e"],[0.4444444444444444,"#bd3786"],[0.5555555555555556,"#d8576b"],[0.6666666666666666,"#ed7953"],[0.7777777777777778,"#fb9f3a"],[0.8888888888888888,"#fdca26"],[1.0,"#f0f921"]]}],"contourcarpet":[{"type":"contourcarpet","colorbar":{"outlinewidth":0,"ticks":""}}],"contour":[{"type":"contour","colorbar":{"outlinewidth":0,"ticks":""},"colorscale":[[0.0,"#0d0887"],[0.1111111111111111,"#46039f"],[0.2222222222222222,"#7201a8"],[0.3333333333333333,"#9c179e"],[0.4444444444444444,"#bd3786"],[0.5555555555555556,"#d8576b"],[0.6666666666666666,"#ed7953"],[0.7777777777777778,"#fb9f3a"],[0.8888888888888888,"#fdca26"],[1.0,"#f0f921"]]}],"surface":[{"type":"surface","colorbar":{"outlinewidth":0,"ticks":""},"colorscale":[[0.0,"#0d0887"],[0.1111111111111111,"#46039f"],[0.2222222222222222,"#7201a8"],[0.3333333333333333,"#9c179e"],[0.4444444444444444,"#bd3786"],[0.5555555555555556,"#d8576b"],[0.6666666666666666,"#ed7953"],[0.7777777777777778,"#fb9f3a"],[0.8888888888888888,"#fdca26"],[1.0,"#f0f921"]]}],"mesh3d":[{"type":"mesh3d","colorbar":{"outlinewidth":0,"ticks":""}}],"scatter":[{"fillpattern":{"fillmode":"overlay","size":10,"solidity":0.2},"type":"scatter"}],"parcoords":[{"type":"parcoords","line":{"colorbar":{"outlinewidth":0,"ticks":""}}}],"scatterpolargl":[{"type":"scatterpolargl","marker":{"colorbar":{"outlinewidth":0,"ticks":""}}}],"bar":[{"error_x":{"color":"#2a3f5f"},"error_y":{"color":"#2a3f5f"},"marker":{"line":{"color":"#E5ECF6","width":0.5},"pattern":{"fillmode":"overlay","size":10,"solidity":0.2}},"type":"bar"}],"scattergeo":[{"type":"scattergeo","marker":{"colorbar":{"outlinewidth":0,"ticks":""}}}],"scatterpolar":[{"type":"scatterpolar","marker":{"colorbar":{"outlinewidth":0,"ticks":""}}}],"histogram":[{"marker":{"pattern":{"fillmode":"overlay","size":10,"solidity":0.2}},"type":"histogram"}],"scattergl":[{"type":"scattergl","marker":{"colorbar":{"outlinewidth":0,"ticks":""}}}],"scatter3d":[{"type":"scatter3d","line":{"colorbar":{"outlinewidth":0,"ticks":""}},"marker":{"colorbar":{"outlinewidth":0,"ticks":""}}}],"scattermap":[{"type":"scattermap","marker":{"colorbar":{"outlinewidth":0,"ticks":""}}}],"scattermapbox":[{"type":"scattermapbox","marker":{"colorbar":{"outlinewidth":0,"ticks":""}}}],"scatterternary":[{"type":"scatterternary","marker":{"colorbar":{"outlinewidth":0,"ticks":""}}}],"scattercarpet":[{"type":"scattercarpet","marker":{"colorbar":{"outlinewidth":0,"ticks":""}}}],"carpet":[{"aaxis":{"endlinecolor":"#2a3f5f","gridcolor":"white","linecolor":"white","minorgridcolor":"white","startlinecolor":"#2a3f5f"},"baxis":{"endlinecolor":"#2a3f5f","gridcolor":"white","linecolor":"white","minorgridcolor":"white","startlinecolor":"#2a3f5f"},"type":"carpet"}],"table":[{"cells":{"fill":{"color":"#EBF0F8"},"line":{"color":"white"}},"header":{"fill":{"color":"#C8D4E3"},"line":{"color":"white"}},"type":"table"}],"barpolar":[{"marker":{"line":{"color":"#E5ECF6","width":0.5},"pattern":{"fillmode":"overlay","size":10,"solidity":0.2}},"type":"barpolar"}],"pie":[{"automargin":true,"type":"pie"}]},"layout":{"autotypenumbers":"strict","colorway":["#636efa","#EF553B","#00cc96","#ab63fa","#FFA15A","#19d3f3","#FF6692","#B6E880","#FF97FF","#FECB52"],"font":{"color":"#2a3f5f"},"hovermode":"closest","hoverlabel":{"align":"left"},"paper_bgcolor":"white","plot_bgcolor":"#E5ECF6","polar":{"bgcolor":"#E5ECF6","angularaxis":{"gridcolor":"white","linecolor":"white","ticks":""},"radialaxis":{"gridcolor":"white","linecolor":"white","ticks":""}},"ternary":{"bgcolor":"#E5ECF6","aaxis":{"gridcolor":"white","linecolor":"white","ticks":""},"baxis":{"gridcolor":"white","linecolor":"white","ticks":""},"caxis":{"gridcolor":"white","linecolor":"white","ticks":""}},"coloraxis":{"colorbar":{"outlinewidth":0,"ticks":""}},"colorscale":{"sequential":[[0.0,"#0d0887"],[0.1111111111111111,"#46039f"],[0.2222222222222222,"#7201a8"],[0.3333333333333333,"#9c179e"],[0.4444444444444444,"#bd3786"],[0.5555555555555556,"#d8576b"],[0.6666666666666666,"#ed7953"],[0.7777777777777778,"#fb9f3a"],[0.8888888888888888,"#fdca26"],[1.0,"#f0f921"]],"sequentialminus":[[0.0,"#0d0887"],[0.1111111111111111,"#46039f"],[0.2222222222222222,"#7201a8"],[0.3333333333333333,"#9c179e"],[0.4444444444444444,"#bd3786"],[0.5555555555555556,"#d8576b"],[0.6666666666666666,"#ed7953"],[0.7777777777777778,"#fb9f3a"],[0.8888888888888888,"#fdca26"],[1.0,"#f0f921"]],"diverging":[[0,"#8e0152"],[0.1,"#c51b7d"],[0.2,"#de77ae"],[0.3,"#f1b6da"],[0.4,"#fde0ef"],[0.5,"#f7f7f7"],[0.6,"#e6f5d0"],[0.7,"#b8e186"],[0.8,"#7fbc41"],[0.9,"#4d9221"],[1,"#276419"]]},"xaxis":{"gridcolor":"white","linecolor":"white","ticks":"","title":{"standoff":15},"zerolinecolor":"white","automargin":true,"zerolinewidth":2},"yaxis":{"gridcolor":"white","linecolor":"white","ticks":"","title":{"standoff":15},"zerolinecolor":"white","automargin":true,"zerolinewidth":2},"scene":{"xaxis":{"backgroundcolor":"#E5ECF6","gridcolor":"white","linecolor":"white","showbackground":true,"ticks":"","zerolinecolor":"white","gridwidth":2},"yaxis":{"backgroundcolor":"#E5ECF6","gridcolor":"white","linecolor":"white","showbackground":true,"ticks":"","zerolinecolor":"white","gridwidth":2},"zaxis":{"backgroundcolor":"#E5ECF6","gridcolor":"white","linecolor":"white","showbackground":true,"ticks":"","zerolinecolor":"white","gridwidth":2}},"shapedefaults":{"line":{"color":"#2a3f5f"}},"annotationdefaults":{"arrowcolor":"#2a3f5f","arrowhead":0,"arrowwidth":1},"geo":{"bgcolor":"white","landcolor":"#E5ECF6","subunitcolor":"white","showland":true,"showlakes":true,"lakecolor":"white"},"title":{"x":0.05},"mapbox":{"style":"light"}}},"geo":{"projection":{"type":"natural earth"},"showframe":false,"showcoastlines":true,"coastlinecolor":"grey","showland":true,"landcolor":"#F5F5F2","showocean":true,"oceancolor":"#EAF2F8","showlakes":false,"bgcolor":"#EAF2F8"},"margin":{"l":0,"r":0,"t":30,"b":0},"title":{"font":{"size":16},"text":"Global distribution of cancer microbiome studies","x":0.5},"hoverlabel":{"font":{"size":13,"family":"Arial"},"bgcolor":"white"},"height":500,"paper_bgcolor":"white"},                        {"responsive": true}                    )                };            </script>        </div>
 </body>
 </html>

diff --git a/index.html b/index.html
@@ -459,7 +459,7 @@
 
 
 <h1 id="curatedmetagenomicdata-cancer-datasets-overview">curatedMetagenomicData -- Cancer Datasets Overview</h1>
-<p><em>Last updated: 2026-09-03 16:23 UTC</em></p>
+<p><em>Last updated: 2026-09-07 08:41 UTC</em></p>
 <h2 id="summary">Summary</h2>
 <table>
 <thead>
@@ -515,7 +515,7 @@
 </tr>
 <tr>
 <td>Subjects with BMI information</td>
-<td>6025 / 9639 (62.5%) — available in 34 / 58 studies</td>
+<td>6016 / 9639 (62.4%) — available in 34 / 58 studies</td>
 </tr>
 </tbody>
 </table>
